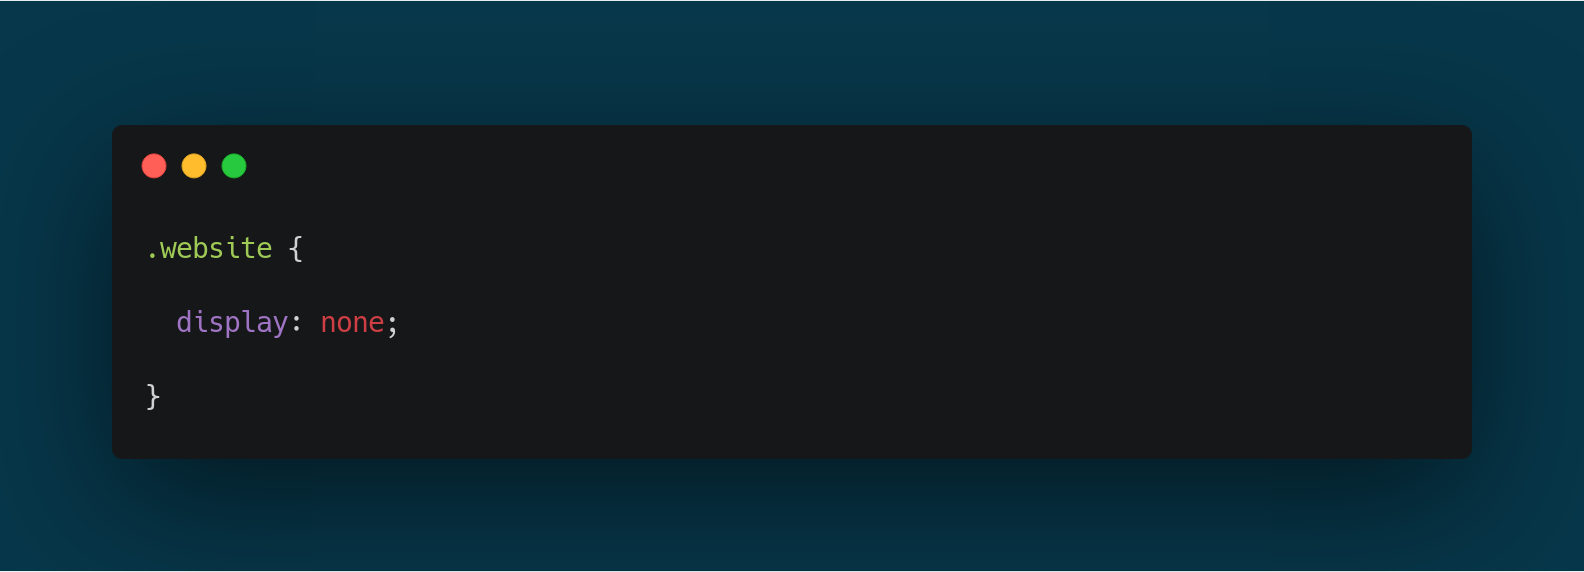
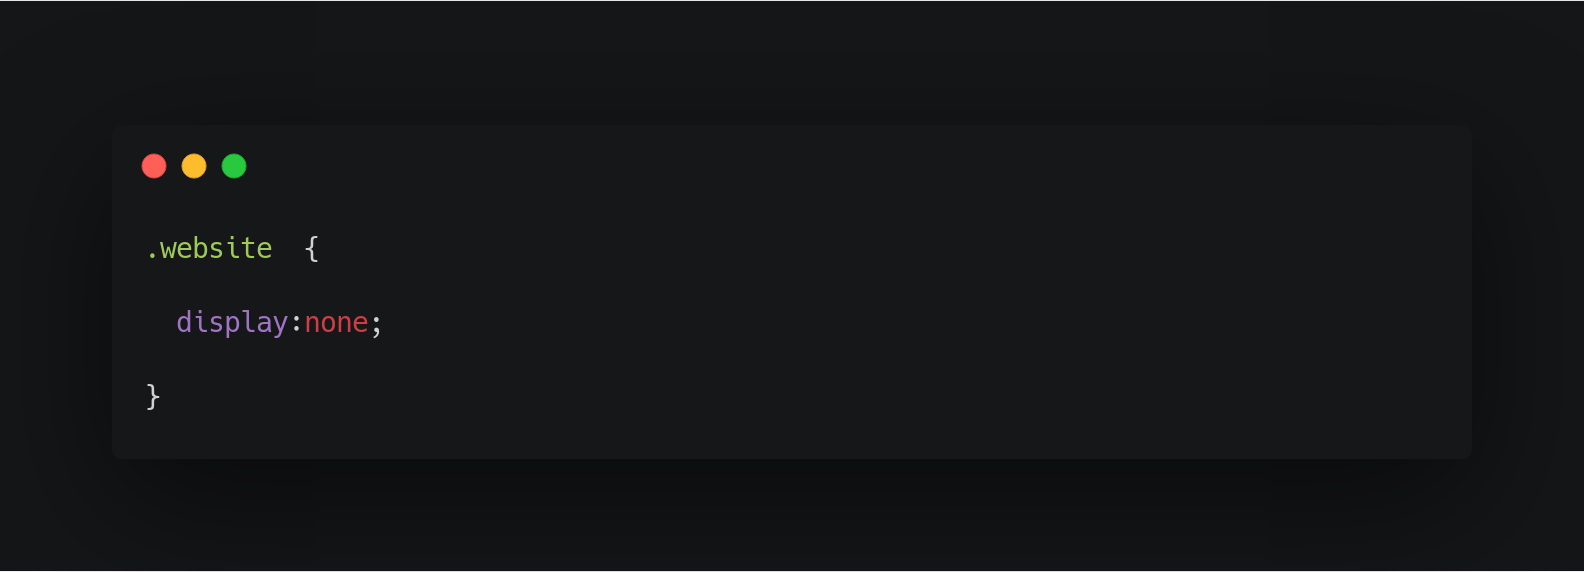
update

diff --git a/index.html b/index.html
@@ -1,86 +1,87 @@
 <!DOCTYPE html>
 <html lang="en">
-  <head>
-    <meta charset="UTF-8">
-    <meta name="viewport" content="width=device-width, initial-scale=1.0">
-    <meta name="keywords" content="portfolio, Ogurinka Benjamin, Ogurinka Tammy Benjamin, Tammy, simplytammy simply tammy">
-    <meta name="description" content="Curious Developer. I design and code beautifully simple things, and I love what I do.">
-    <meta http-equiv="X-UA-Compatible" content="ie=edge">
-    <title>Ogurinka :: Home</title>
-    <!-- open graph tags -->
-    <meta property="og:title" content="Ogurinka Benjamin :." />
-    <meta property="og:description" content="Curious Developer. I design and code beautifully simple things, and I love what I do" />
-    <meta property="og:url" content="https://ogurinkabenjamin.me" />
-    <meta property="og:type" content="website" />
-    <meta property="og:image" content="https://pbs.twimg.com/profile_images/1122402512957575169/da6vHW3F_400x400.jpg" />
-    <!-- twitter cards -->
-    <meta name="twitter:card" content="“summary_large_image”" />
-    <meta name="twitter:site" content="@_simplytammy" />
-    <meta name="twitter:creator" content="@_simplytammy" />
-    <meta name="twitter:title" content="Ogurinka Benjamin ::" />
-    <meta name="twitter:description" content="Curious Developer. I design and code beautifully simple things, and I love what I do." />
-    <meta name="twitter:image" content="https://pbs.twimg.com/profile_images/1122402512957575169/da6vHW3F_400x400.jpg" />
-    <!--Icons -->
-    <link rel="apple-touch-icon" sizes="57x57" href="/apple-icon-57x57.png">
-    <link rel="apple-touch-icon" sizes="60x60" href="assets/img/icons/apple-icon-60x60.png">
-    <link rel="apple-touch-icon" sizes="72x72" href="assets/img/icons/apple-icon-72x72.png">
-    <link rel="apple-touch-icon" sizes="76x76" href="assets/img/icons/apple-icon-76x76.png">
-    <link rel="apple-touch-icon" sizes="114x114" href="assets/img/icons/apple-icon-114x114.png">
-    <link rel="apple-touch-icon" sizes="120x120" href="assets/img/icons/apple-icon-120x120.png">
-    <link rel="apple-touch-icon" sizes="144x144" href="assets/img/icons/apple-icon-144x144.png">
-    <link rel="apple-touch-icon" sizes="152x152" href="assets/img/icons/apple-icon-152x152.png">
-    <link rel="apple-touch-icon" sizes="180x180" href="assets/img/icons/apple-icon-180x180.png">
-    <link rel="icon" type="image/png" sizes="192x192"  href="assets/img/icons/android-icon-192x192.png">
-    <link rel="icon" type="image/png" sizes="32x32" href="assets/img/icons/favicon-32x32.png">
-    <link rel="icon" type="image/png" sizes="96x96" href="assets/img/icons/favicon-96x96.png">
-    <link rel="icon" type="image/png" sizes="16x16" href="assets/img/icons/favicon-16x16.png">
-    <link rel="manifest" href="manifest.json">
-    <meta name="msapplication-TileColor" content="#07374a">
-    <meta name="msapplication-TileImage" content="assets/img/icons//ms-icon-144x144.png">
-    <meta name="theme-color" content="#07374a">
-    <!--Custom Css-->
-    <link rel="stylesheet" href="style.css">
-    <!--Icons-->
-    <link rel="stylesheet" type="text/css" href="assets/fontawesome/css/all.min.css">
-    <!--Google font-->
-    <link href="https://fonts.googleapis.com/css?family=Space+Mono" rel="stylesheet">
-  </head>
-  <body>
-    <div class="og_container">
-      <div class="wrapper">
-        <h1 class="">_I am redesigning </h1>
-        <div class="">
-          <img src="/assets/img/core/building.png">
+    <head>
+        <meta charset="UTF-8">
+        <meta name="viewport" content="width=device-width, initial-scale=1.0">
+        <meta name="keywords" content="portfolio, Ogurinka Benjamin, Ogurinka Tammy Benjamin, Tammy, simplytammy simply tammy">
+        <meta name="description" content="Curious Developer. I design and code beautifully simple things, and I love what I do.">
+        <meta http-equiv="X-UA-Compatible" content="ie=edge">
+        <title>Ogurinka :: Home</title>
+        <!-- open graph tags -->
+        <meta property="og:title" content="Ogurinka Benjamin :." />
+        <meta property="og:description" content="Curious Developer. I design and code beautifully simple things, and I love what I do" />
+        <meta property="og:url" content="https://ogurinkabenjamin.me" />
+        <meta property="og:type" content="website" />
+        <meta property="og:image" content="https://pbs.twimg.com/profile_images/1122402512957575169/da6vHW3F_400x400.jpg" />
+        <!-- twitter cards -->
+        <meta name="twitter:card" content="“summary_large_image”" />
+        <meta name="twitter:site" content="@_simplytammy" />
+        <meta name="twitter:creator" content="@_simplytammy" />
+        <meta name="twitter:title" content="Ogurinka Benjamin ::" />
+        <meta name="twitter:description" content="Curious Developer. I design and code beautifully simple things, and I love what I do." />
+        <meta name="twitter:image" content="https://pbs.twimg.com/profile_images/1122402512957575169/da6vHW3F_400x400.jpg" />
+        <!--Icons -->
+        <link rel="apple-touch-icon" sizes="57x57" href="/apple-icon-57x57.png">
+        <link rel="apple-touch-icon" sizes="60x60" href="assets/img/icons/apple-icon-60x60.png">
+        <link rel="apple-touch-icon" sizes="72x72" href="assets/img/icons/apple-icon-72x72.png">
+        <link rel="apple-touch-icon" sizes="76x76" href="assets/img/icons/apple-icon-76x76.png">
+        <link rel="apple-touch-icon" sizes="114x114" href="assets/img/icons/apple-icon-114x114.png">
+        <link rel="apple-touch-icon" sizes="120x120" href="assets/img/icons/apple-icon-120x120.png">
+        <link rel="apple-touch-icon" sizes="144x144" href="assets/img/icons/apple-icon-144x144.png">
+        <link rel="apple-touch-icon" sizes="152x152" href="assets/img/icons/apple-icon-152x152.png">
+        <link rel="apple-touch-icon" sizes="180x180" href="assets/img/icons/apple-icon-180x180.png">
+        <link rel="icon" type="image/png" sizes="192x192"  href="assets/img/icons/android-icon-192x192.png">
+        <link rel="icon" type="image/png" sizes="32x32" href="assets/img/icons/favicon-32x32.png">
+        <link rel="icon" type="image/png" sizes="96x96" href="assets/img/icons/favicon-96x96.png">
+        <link rel="icon" type="image/png" sizes="16x16" href="assets/img/icons/favicon-16x16.png">
+        <link rel="manifest" href="manifest.json">
+        <meta name="msapplication-TileColor" content="#151618">
+        <meta name="msapplication-TileImage" content="assets/img/icons//ms-icon-144x144.png">
+        <meta name="theme-color" content="#151618">
+        <!--Custom Css-->
+        <link rel="stylesheet" href="style.css">
+        <!--Icons-->
+        <link rel="stylesheet" type="text/css" href="assets/fontawesome/css/all.min.css">
+        <!--Google font-->
+        <link href="https://fonts.googleapis.com/css?family=Space+Mono" rel="stylesheet">
+    </head>
+    <body>
+        <div class="og_container">
+            <div class="wrapper">
+                <h1 class="">_I am redesigning </h1>
+                <p>Meanwhile, check out my <a href="https://portfolio.ogurinkabenjamin.me/" target="_blank" style="color: #5f646d;">Portfolio</a></p>
+                <div class="">
+                    <img src="/assets/img/core/building.png">
+                </div>
+                <p class="" style="color: #fff"><code>Also keep an eye on me via social media</code></p>
+                <div class="og-quick-contact-holder w3-animate-bottom">
+                    <a href="https://twitter.com/_simplytammy" class="og-quick-contact-link" target="_blank"
+                        >
+                    <i class="fab  fa-fw fa-twitter"></i></a>
+                    <a href="https://www.github.com/simplytammy" class=" og-quick-contact-link" target="_blank"
+                        >
+                    <i class="fab  fa-fw fa-github-alt"></i></a>
+                    <a href="https://codepen.io/simplytammy/" class=" og-quick-contact-link" target="_blank"
+                        >
+                    <i class="fab  fa-fw fa-codepen"></i></a>
+                    <a href="https://dev.to/simplytammy/" class=" og-quick-contact-link" target="_blank"
+                        >
+                    <i class="fab  fa-fw fa-dev"></i></a>
+                    <br>
+                </div>
+            </div>
         </div>
-        <p class="" style="color: #fff"><code>But please, keep an eye on me via social media</code></p>
-        <div class="og-quick-contact-holder w3-animate-bottom">
-          <a href="https://twitter.com/_simplytammy" class="og-quick-contact-link" target="_blank"
-            >
-          <i class="fab  fa-fw fa-twitter"></i></a>
-          <a href="https://www.github.com/simplytammy" class=" og-quick-contact-link" target="_blank"
-            >
-          <i class="fab  fa-fw fa-github-alt"></i></a>
-          <a href="https://codepen.io/simplytammy/" class=" og-quick-contact-link" target="_blank"
-            >
-          <i class="fab  fa-fw fa-codepen"></i></a>
-          <a href="https://dev.to/simplytammy/" class=" og-quick-contact-link" target="_blank"
-            >
-          <i class="fab  fa-fw fa-dev"></i></a>
-          <br>
-        </div>
-      </div>
-    </div>
-    <script src="app.js"></script>
-    <script>
-    if (navigator.serviceWorker.controller) {
-    console.log('[My PWA] active service worker found, no need to register')
-    } else {
-    navigator.serviceWorker.register('sw.js', {
-    scope: './'
-    }).then(function (reg) {
-    console.log('Service worker has been registered for scope:' + reg.scope);
-    });
-    }
-    </script>
-  </body>
+        <script src="app.js"></script>
+        <script>
+        if (navigator.serviceWorker.controller) {
+        console.log('[My PWA] active service worker found, no need to register')
+        } else {
+        navigator.serviceWorker.register('sw.js', {
+        scope: './'
+        }).then(function (reg) {
+        console.log('Service worker has been registered for scope:' + reg.scope);
+        });
+        }
+        </script>
+    </body>
 </html>

diff --git a/style.css b/style.css
@@ -1,51 +1,85 @@
 /*==========
 General and overides
 ==========*/
-* {  background:inherit;  font-family: 'Space Mono', monospace;
+
+* {
+  background: inherit;
+  font-family: 'Space Mono', monospace;
 }
-html {background:#07374A !important;}
+
+html {
+  background: #151618 !important;
+}
+
 body {
   -o-box-sizing: border-box;
   -webkit-box-sizing: border-box;
-          box-sizing: border-box;
+  box-sizing: border-box;
   font-family: 'Space Mono', monospace !important;
-  color: #aec26b !important;
-  background:#07374A;
+  color: #fff;
+  background: #151618;
   cursor: default;
 }
+
 @media (max-width:744px) {
-  html, body {
+  html,
+  body {
     height: auto;
   }
 }
-@-webkit-keyframes fadeIn { from { opacity:0; } to { opacity:1; } }
-@-moz-keyframes fadeIn { from { opacity:0; } to { opacity:1; } }
-@keyframes fadeIn { from { opacity:0; } to { opacity:1; } }
+
+@-webkit-keyframes fadeIn {
+  from {
+    opacity: 0;
+  }
+  to {
+    opacity: 1;
+  }
+}
+
+@-moz-keyframes fadeIn {
+  from {
+    opacity: 0;
+  }
+  to {
+    opacity: 1;
+  }
+}
+
+@keyframes fadeIn {
+  from {
+    opacity: 0;
+  }
+  to {
+    opacity: 1;
+  }
+}
+
 .fade-in {
-  opacity:0;
-  -webkit-animation:fadeIn ease-in 1; 
-  -moz-animation:fadeIn ease-in 1;
-  animation:fadeIn ease-in 1;
-  -webkit-animation-fill-mode:forwards; 
-  -moz-animation-fill-mode:forwards;
-  animation-fill-mode:forwards;
-  -webkit-animation-duration:1s;
-  -moz-animation-duration:1s;
-  animation-duration:1s;
+  opacity: 0;
+  -webkit-animation: fadeIn ease-in 1;
+  -moz-animation: fadeIn ease-in 1;
+  animation: fadeIn ease-in 1;
+  -webkit-animation-fill-mode: forwards;
+  -moz-animation-fill-mode: forwards;
+  animation-fill-mode: forwards;
+  -webkit-animation-duration: 1s;
+  -moz-animation-duration: 1s;
+  animation-duration: 1s;
 }
 
 img {
   width: 100%;
 }
 
-.og_container
-{
+.og_container {
   min-height: 100vh;
   display: flex;
   align-items: center;
   justify-content: center;
   padding: 1em;
 }
+
 .og_container .wrapper {
   width: 50vw;
   text-align: center;
@@ -54,57 +88,55 @@ img {
 g_container .wrapper h1 {
   font-size: 36px;
 }
-.og_container .wrapper p
-{
+
+.og_container .wrapper p {
   font-size: 18px;
 }
+
 .og-quick-contact-holder {
   padding: 2em 0;
   margin: 1em auto;
   text-align: center;
 }
- .og-quick-contact-link {
+
+.og-quick-contact-link {
   font-size: 18px;
   z-index: 99999;
   padding: 10px 12px;
   margin: 1rem auto;
-  border:2px solid #fff;
+  border: 2px solid #fff;
   border-radius: 50%;
   margin-bottom: 30px;
   color: #fff;
-  text-align:center;
-
+  text-align: center;
 }
+
 .og-quick-contact-link:hover {
   color: #aec26b;
   -webkit-transition: .6s;
   transition: .6s;
-    border:2px solid #aec26b;
-
+  border: 2px solid #aec26b;
 }
+
 @media screen and (max-width: 765px) {
   .og_container .wrapper {
     width: 100%;
   }
   .og_container .wrapper h1 {
-  font-size: 20px;
+    font-size: 20px;
+  }
+  .og_container .wrapper p {
+    font-size: 14px;
+  }
+  .og-quick-contact-link {
+    font-size: 14px;
+    z-index: 99999;
+    padding: 10px 12px;
+    margin: 1rem auto;
+    border: 2px solid #fff;
+    border-radius: 50%;
+    margin-bottom: 30px;
+    color: #fff;
+    text-align: center;
+  }
 }
-.og_container .wrapper p
-{
-  font-size: 14px;
-}
- .og-quick-contact-link {
-  font-size: 14px;
-  z-index: 99999;
-  padding: 10px 12px;
-  margin: 1rem auto;
-  border:2px solid #fff;
-  border-radius: 50%;
-  margin-bottom: 30px;
-  color: #fff;
-  text-align:center;
-
-}
-
-}
-
